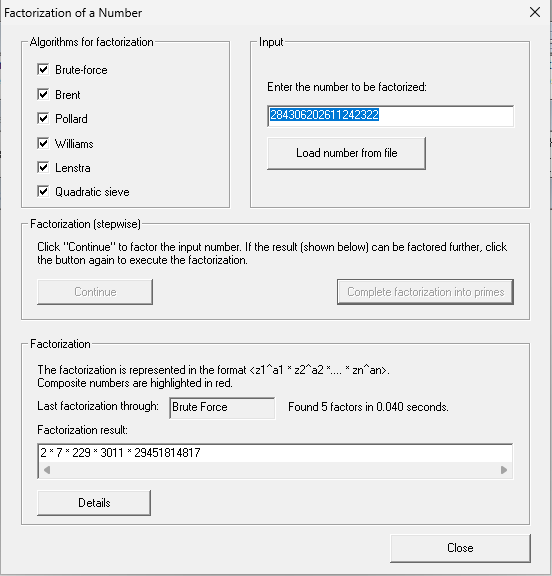
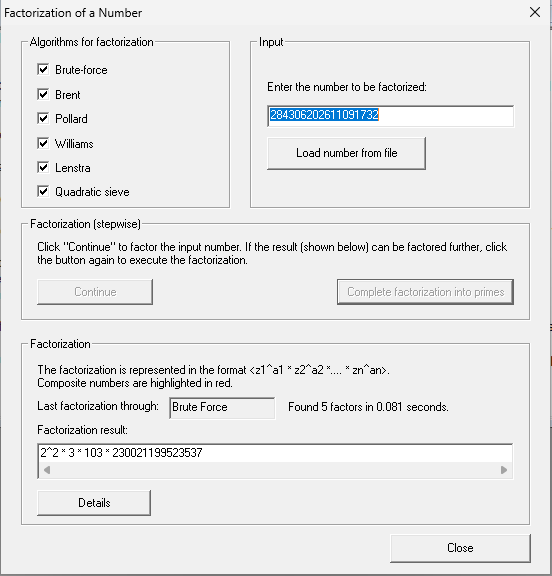
fix(cyber): set lab5 date

diff --git a/semestr-5/cyber/lab05/notes.md b/semestr-5/cyber/lab05/notes.md
@@ -1,6 +1,6 @@
 # Cyberbezpieczeństwo laboratorium
 
-2026-11-25
+2026-11-09
 
 Konrad Guzek grupa 8
 
@@ -149,19 +149,19 @@ Liczbę utworzono z numeru indeksu, roku, miesiąca, dnia, godziny i minuty wyko
 
 | Numer indeksu | Rok | Miesiąc | Dzień | Godzina | Minuta |
 | --- | --- | --- | --- | --- | --- |
-| 284306 | 2026 | 11 | 24 | 23 | 22 |
+| 284306 | 2026 | 11 | 09 | 17 | 32 |
 
 ```text
-n = 284306 2026 11 24 23 22 = 284306202611242322   (18 cyfr, ok. 2^58)
+n = 284306 2026 11 09 17 32 = 284306202611091732   (18 cyfr, ok. 2^58)
 ```
 
 W `Indiv. Procedures/RSA Cryptosystem/Prime Number Test` test Millera-Rabina od razu wykazał, że liczba jest złożona (jest zresztą parzysta). Przycisk `Factorize number` przeniósł ją do okna `Factorization of a Number`, gdzie zaznaczone były wszystkie metody (brute-force, Brent, Pollard, Williams, Lenstra, sito kwadratowe). `Complete factorization into primes` dało wynik:
 
 ```text
-284306202611242322 = 2 · 7 · 229 · 3011 · 29451814817
+284306202611091732 = 2^2 · 3 · 103 · 230021199523537
 ```
 
-Program znalazł 5 czynników w 0,040 s, a ostatnim użytym algorytmem był brute-force: liczba ma małe dzielniki, które wystarczy sprawdzić po kolei, a pozostały czynnik `29451814817` (11 cyfr) jest pierwszy.
+Program znalazł 5 czynników (licząc krotność dwójki) w 0,081 s, a ostatnim użytym algorytmem był brute-force: liczba ma małe dzielniki, które wystarczy sprawdzić po kolei, a pozostały czynnik `230021199523537` (15 cyfr) jest pierwszy.
 
 ![Faktoryzacja liczby z zadania 2.1](screenshots/2.1_faktoryzacja.png)
 
